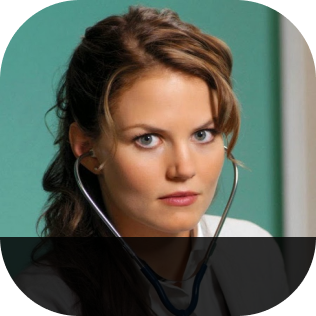
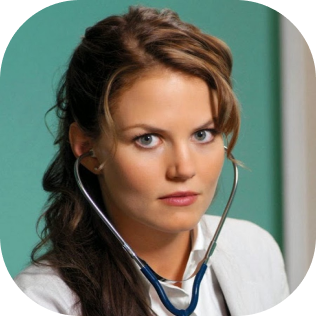
fix-cards

Changed region(s): [[0.0, 0.7405, 1.0, 1.0]]

diff --git a/index.html b/index.html
@@ -66,38 +66,44 @@
 				<div class="members">
 
 					<div class="members__card">
-						<img class="member-photo" src="./img/content/forman.png" alt="">
+						<img class="member-photo" src="./img/content/foreman.png" alt="">
 						<h4 class="member-name"><a class="member-name__link" href="">Eric Foreman</a></h4>
+						<div class="background-name"></div>
 						<a class="learn-more" href="">Learn More.. <img src="./img/icon/cane-btn.png" alt=""></a>
 					</div>
 
 					<div class="members__card">
-						<img class="member-photo" src="./img/content/hadly.png" alt="">
+						<img class="member-photo" src="./img/content/hadley.png" alt="">
 						<h4 class="member-name"><a class="member-name__link" href="">Remy Hadley</a></h4>
+						<div class="background-name"></div>
 						<a class="learn-more" href="">Learn More.. <img src="./img/icon/cane-btn.png" alt=""></a>
 					</div>
 
 					<div class="members__card">
 						<img class="member-photo" src="./img/content/taub.png" alt="">
 						<h4 class="member-name"><a class="member-name__link" href="">Chris Taub</a></h4>
+						<div class="background-name"></div>
 						<a class="learn-more" href="">Learn More.. <img src="./img/icon/cane-btn.png" alt=""></a>
 					</div>
 
 					<div class="members__card">
 						<img class="member-photo" src="./img/content/chase.png" alt="">
 						<h4 class="member-name"><a class="member-name__link" href="">Robert Chase</a></h4>
+						<div class="background-name"></div>
 						<a class="learn-more" href="">Learn More.. <img src="./img/icon/cane-btn.png" alt=""></a>
 					</div>
 
 					<div class="members__card">
 						<img class="member-photo" src="./img/content/cameron.png" alt="">
 						<h4 class="member-name"><a class="member-name__link" href="">Allison Cameron</a></h4>
+						<div class="background-name"></div>
 						<a class="learn-more" href="">Learn More.. <img src="./img/icon/cane-btn.png" alt=""></a>
 					</div>
 
 					<div class="members__card">
-						<img class="member-photo" src="./img/content/cartner.png" alt="">
+						<img class="member-photo" src="./img/content/kutner.png" alt="">
 						 <h4 class="member-name"><a class="member-name__link" href="">Lawrence Kutner</a></h4>
+						 <div class="background-name"></div>
 						<a class="learn-more" href="">Learn More.. <img src="./img/icon/cane-btn.png" alt=""></a>
 					</div>
 				</div>

diff --git a/css/style.css b/css/style.css
@@ -154,19 +154,32 @@
 
 .members__card {
 	margin-top: 65px;
-	
+	border-radius: 0px 0px 80px 80px;
 }
 
 
 .member-name {
+	position: relative;
 	font-weight: 400;
 	font-size: 36px;
 	line-height: 53px;
 	color: #FFFFFF;
-	margin: -70px 0px 30px 0px;
+	margin: -70px 0px 0px 0px;
 	text-align: center;
 	cursor: pointer;
 	transition: 0.3s;
+	z-index: 1;
+
+}
+
+.background-name {
+	position: relative;
+	min-width: 316px;
+	min-height: 79px;
+	margin: -60px 0px 10px 0px;
+	background: rgba(0, 0, 0, 0.81);
+	border-radius: 0px 0px 80px 80px;
+	z-index: 0;
 }
 
 	
